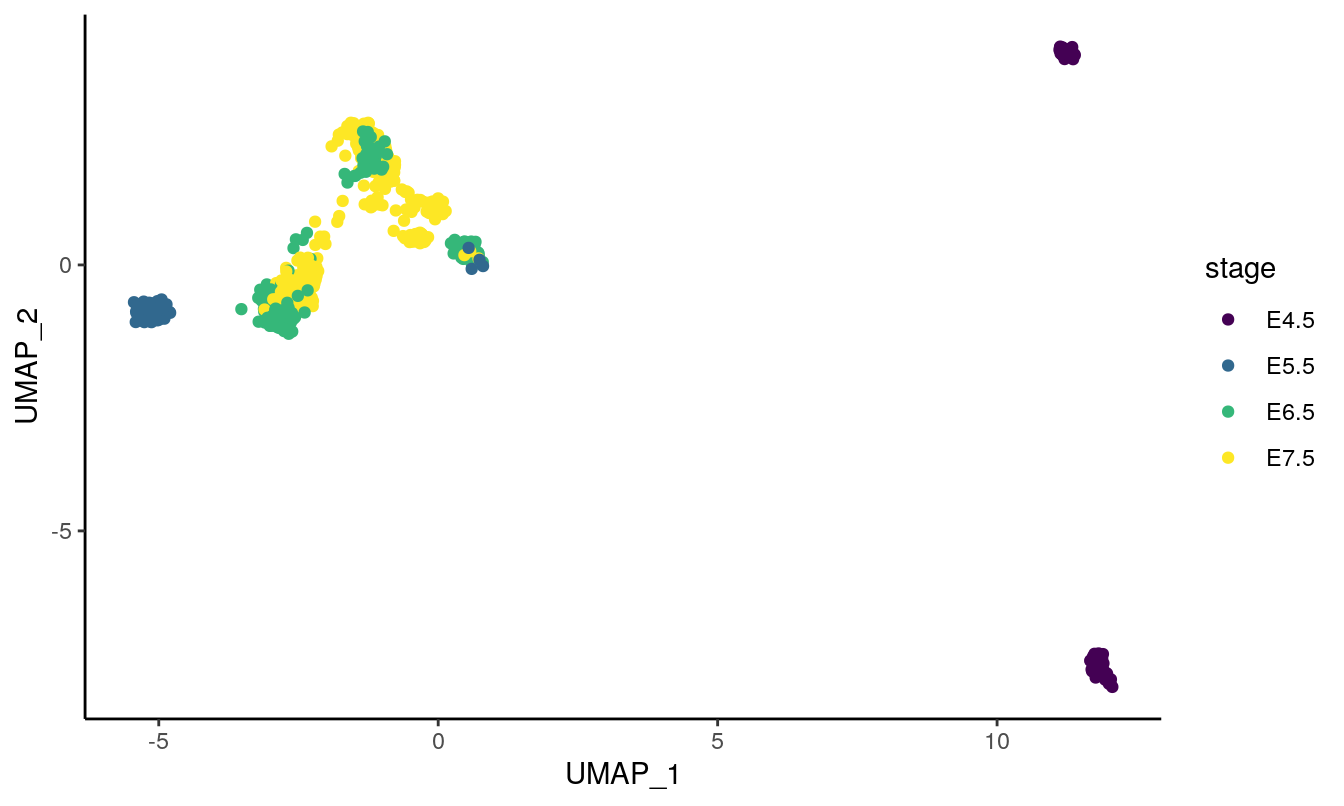
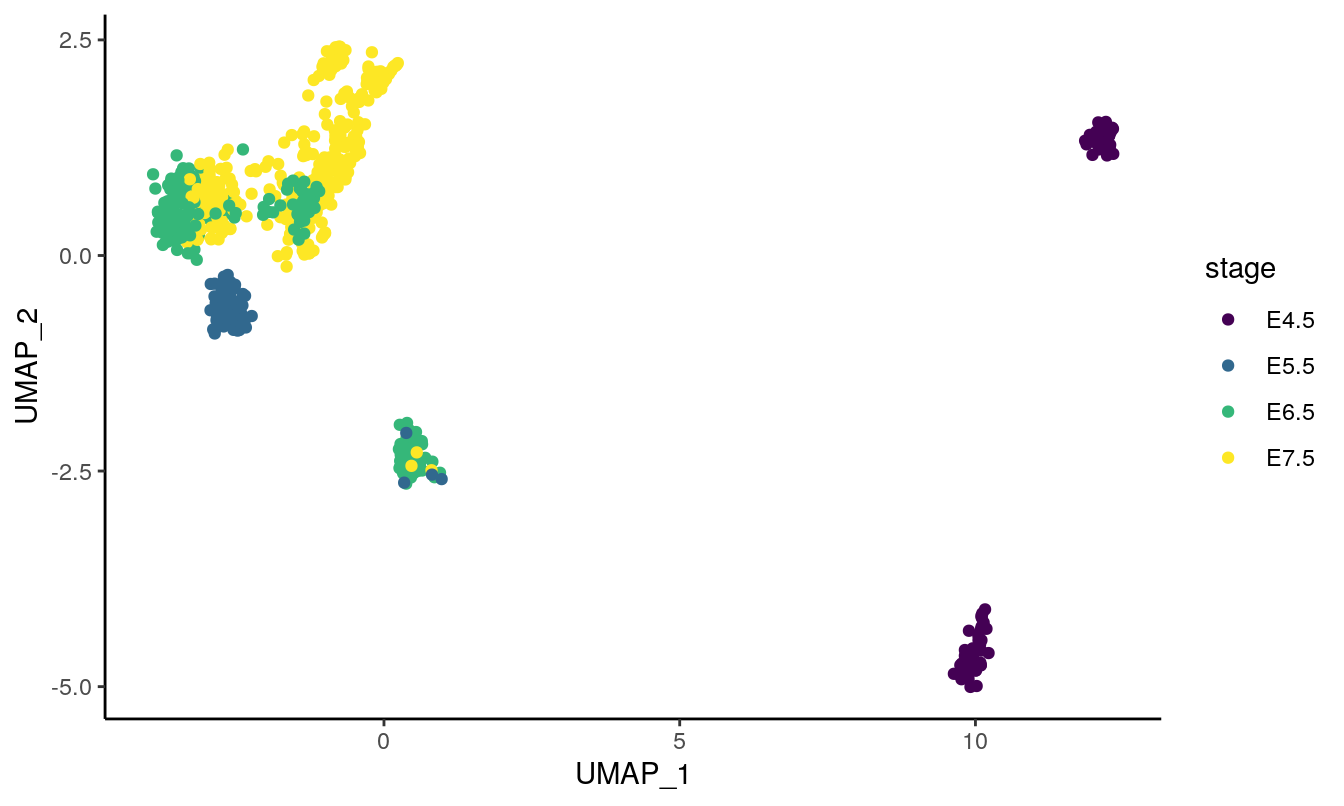
Deploying to gh-pages from  @ 55c8b77de9d2223fc3254720f50335c445be6e78 🚀

diff --git a/articles/index.html b/articles/index.html
@@ -262,17 +262,19 @@ density plots for methylation data show that shorter genomic regions tend to hav
 <h2 class="hasAnchor">
 <a href="#umap" class="anchor"></a>UMAP</h2>
 <p>Here we use <code>uwot</code> package for Uniform Manifold Approximation Projection. The original study used the <code>umap</code> package with <code>method = 'umap-learn'</code> parameter which requires the ‘umap-learn’ python library and can add complexity to set up on a VM.</p>
-<div class="sourceCode" id="cb10"><html><body><pre class="r"><span class="fu"><a href="https://rdrr.io/r/base/Random.html">set.seed</a></span>(<span class="no">params</span>$<span class="no">umap_params</span>[<span class="st">'run.seed'</span>])
+<div class="sourceCode" id="cb10"><html><body><pre class="r"><span class="fu"><a href="https://rdrr.io/r/base/Random.html">RNGversion</a></span>(<span class="st">'4.0.1'</span>)
+<span class="fu"><a href="https://rdrr.io/r/base/Random.html">set.seed</a></span>(<span class="no">params</span>$<span class="no">umap_params</span>[<span class="st">'run.seed'</span>])
 <span class="co">## all params use defaults except for 'n_components' and 'min_dist'</span>
 <span class="fu"><a href="https://rdrr.io/r/base/cat.html">cat</a></span>(<span class="fu"><a href="https://rdrr.io/r/base/sprintf.html">sprintf</a></span>(<span class="st">'running umap on RNA data with parameters: %s ...\n '</span>,
             <span class="fu"><a href="https://rdrr.io/r/base/paste.html">paste</a></span>(<span class="fu"><a href="https://rdrr.io/r/base/names.html">names</a></span>(<span class="no">params</span>$<span class="no">umap_params</span>[-<span class="fl">1</span>]), <span class="st">':'</span>,
                   <span class="no">params</span>$<span class="no">umap_params</span>[-<span class="fl">1</span>], <span class="kw">collapse</span> <span class="kw">=</span> <span class="st">', '</span>)))
-<span class="co">#&gt; running umap on RNA data with parameters: n_neighbors : 15, n_components : 4 ...</span>
+<span class="co">#&gt; running umap on RNA data with parameters: n_neighbors : 15, n_components : 4, min_dist : 0.1 ...</span>
 <span class="co">#&gt; </span>
 <span class="no">umap_rna_unsup</span> <span class="kw">&lt;-</span> <span class="kw pkg">uwot</span><span class="kw ns">::</span><span class="fu"><a href="https://rdrr.io/pkg/uwot/man/umap.html">umap</a></span>(
   <span class="fu"><a href="https://rdrr.io/r/base/t.html">t</a></span>(<span class="fu">assay</span>(<span class="no">gastru.mae</span>, <span class="st">'rna'</span>)),
   <span class="kw">n_neighbors</span> <span class="kw">=</span> <span class="no">params</span>$<span class="no">umap_params</span>[<span class="st">'n_neighbors'</span>],
   <span class="kw">n_components</span> <span class="kw">=</span> <span class="no">params</span>$<span class="no">umap_params</span>[<span class="st">'n_components'</span>],
+  <span class="kw">min_dist</span> <span class="kw">=</span> <span class="no">params</span>$<span class="no">umap_params</span>[<span class="st">'min_dist'</span>], <span class="co">## continuity (min_dist &gt;&gt; 0)-discreteness (min_dist -&gt; 0) trade-off</span>
   <span class="kw">metric</span> <span class="kw">=</span> <span class="st">"euclidean"</span>,
   <span class="kw">n_epochs</span> <span class="kw">=</span> <span class="kw">NULL</span>,
   <span class="kw">learning_rate</span> <span class="kw">=</span> <span class="fl">1</span>,
@@ -378,18 +380,32 @@ UMAP plot shows distinct cell populations corresponding to early-stage, mid-stag
 <div id="concordancy-with-rna" class="section level1">
 <h1 class="hasAnchor">
 <a href="#concordancy-with-rna" class="anchor"></a>Concordancy with RNA</h1>
-<p>Average correlation of the components of rna and different modalities:</p>
-<div class="sourceCode" id="cb21"><html><body><pre class="r"><span class="no">cor_with_rna</span> <span class="kw">&lt;-</span> <span class="fu"><a href="https://rdrr.io/r/base/lapply.html">sapply</a></span>(<span class="no">mmspls</span>$<span class="no">variates</span>[-<span class="fl">1</span>], <span class="kw">function</span>(<span class="no">x</span>) {
-  <span class="fu"><a href="https://rdrr.io/r/base/mean.html">mean</a></span>(<span class="fu"><a href="https://rdrr.io/r/base/diag.html">diag</a></span>(<span class="fu"><a href="https://rdrr.io/r/stats/cor.html">cor</a></span>(<span class="no">mmspls</span>$<span class="no">variates</span>$<span class="no">rna</span>, <span class="no">x</span>)))
-})
+<p>Here we calculate the average correlation between components from gene expression and different methylome modalities:</p>
+<div class="sourceCode" id="cb21"><html><body><pre class="r"><span class="no">concordancy</span> <span class="kw">&lt;-</span> <span class="kw">function</span>(<span class="no">pls_obj</span>, <span class="no">comp</span> <span class="kw">=</span> <span class="fl">1</span>) {
 
-<span class="no">cor_with_rna</span> <span class="kw">&lt;-</span> <span class="no">cor_with_rna</span> <span class="kw">%&gt;%</span> <span class="fu"><a href="https://rdrr.io/r/base/sort.html">sort</a></span>(<span class="kw">decreasing</span> <span class="kw">=</span> <span class="fl">TRUE</span>)
-<span class="no">cor_with_rna</span> <span class="kw">&lt;-</span> <span class="no">cor_with_rna</span> <span class="kw">%&gt;%</span> <span class="fu"><a href="https://rdrr.io/r/base/as.data.frame.html">as.data.frame</a></span>() <span class="kw">%&gt;%</span> <span class="fu"><a href="https://rdrr.io/pkg/magrittr/man/aliases.html">set_colnames</a></span>(<span class="fu"><a href="https://rdrr.io/r/base/c.html">c</a></span>(<span class="st">'cor'</span>))
-<span class="no">cor_with_rna</span>$<span class="no">modality</span> <span class="kw">&lt;-</span> <span class="fu"><a href="https://rdrr.io/r/base/factor.html">factor</a></span>(<span class="fu"><a href="https://rdrr.io/r/base/colnames.html">rownames</a></span>(<span class="no">cor_with_rna</span>), <span class="kw">levels</span> <span class="kw">=</span> <span class="fu"><a href="https://rdrr.io/r/base/colnames.html">rownames</a></span>(<span class="no">cor_with_rna</span>), <span class="kw">ordered</span> <span class="kw">=</span> <span class="fl">TRUE</span>)
+  <span class="no">cor_with_y</span> <span class="kw">&lt;-</span> <span class="fu"><a href="https://rdrr.io/r/base/lapply.html">sapply</a></span>(<span class="no">pls_obj</span>$<span class="no">variates</span>[-<span class="fl">1</span>], <span class="kw">function</span>(<span class="no">x_variates</span>) {
+    <span class="no">y_variates</span> <span class="kw">&lt;-</span> <span class="no">pls_obj</span>$<span class="no">variates</span><span class="kw">[[</span><span class="fl">1</span>]]
+    <span class="no">y_variates</span> <span class="kw">&lt;-</span> <span class="no">y_variates</span>[, <span class="no">comp</span>, <span class="kw">drop</span> <span class="kw">=</span> <span class="fl">FALSE</span>]
 
-<span class="fu"><a href="https://ggplot2.tidyverse.org/reference/ggplot.html">ggplot</a></span>(<span class="no">cor_with_rna</span>, <span class="fu"><a href="https://ggplot2.tidyverse.org/reference/aes.html">aes</a></span>(<span class="kw">x</span> <span class="kw">=</span> <span class="no">modality</span>, <span class="kw">y</span> <span class="kw">=</span> <span class="no">cor</span>)) + <span class="fu"><a href="https://ggplot2.tidyverse.org/reference/geom_bar.html">geom_col</a></span>(<span class="kw">fill</span> <span class="kw">=</span> <span class="st">"#35B779FF"</span>) + <span class="fu"><a href="https://ggplot2.tidyverse.org/reference/ggtheme.html">theme_classic</a></span>() +
-  <span class="fu"><a href="https://ggplot2.tidyverse.org/reference/labs.html">labs</a></span>(<span class="kw">y</span> <span class="kw">=</span> <span class="st">'Avg correlation with RNA'</span>, <span class="kw">y</span> <span class="kw">=</span> <span class="st">'Modality'</span>)</pre></body></html></div>
-<p><img src="index_files/figure-html/unnamed-chunk-29-1.png" width="672"></p>
+    <span class="no">avg_cor</span> <span class="kw">&lt;-</span> <span class="fu"><a href="https://rdrr.io/r/base/mean.html">mean</a></span>(<span class="fu"><a href="https://rdrr.io/r/base/diag.html">diag</a></span>(<span class="fu"><a href="https://rdrr.io/r/stats/cor.html">cor</a></span>(<span class="no">y_variates</span>, <span class="no">x_variates</span>)))
+    <span class="no">avg_cor</span>
+  })
+  <span class="no">cor_with_y</span> <span class="kw">&lt;-</span> <span class="no">cor_with_y</span> <span class="kw">%&gt;%</span> <span class="fu"><a href="https://rdrr.io/r/base/sort.html">sort</a></span>(<span class="kw">decreasing</span> <span class="kw">=</span> <span class="fl">TRUE</span>)
+  <span class="no">cor_with_y</span> <span class="kw">&lt;-</span> <span class="no">cor_with_y</span> <span class="kw">%&gt;%</span> <span class="fu"><a href="https://rdrr.io/r/base/as.data.frame.html">as.data.frame</a></span>() <span class="kw">%&gt;%</span> <span class="fu"><a href="https://rdrr.io/pkg/magrittr/man/aliases.html">set_colnames</a></span>(<span class="fu"><a href="https://rdrr.io/r/base/c.html">c</a></span>(<span class="st">'concordancy'</span>))
+  <span class="no">cor_with_y</span> <span class="kw">%&gt;%</span> <span class="fu"><a href="https://rdrr.io/r/base/Round.html">round</a></span>(<span class="kw">digits</span> <span class="kw">=</span> <span class="fl">2</span>) <span class="kw">%&gt;%</span> <span class="fu"><a href="https://rdrr.io/r/base/t.html">t</a></span>() <span class="kw">%&gt;%</span>  <span class="fu"><a href="https://rdrr.io/pkg/knitr/man/kable.html">kable</a></span>() <span class="kw">%&gt;%</span> <span class="fu"><a href="https://rdrr.io/pkg/mixOmics/man/S3methods-print.html">print</a></span>()
+
+  <span class="no">cor_with_y</span>$<span class="no">modality</span> <span class="kw">&lt;-</span> <span class="fu"><a href="https://rdrr.io/r/base/factor.html">factor</a></span>(<span class="fu"><a href="https://rdrr.io/r/base/colnames.html">rownames</a></span>(<span class="no">cor_with_y</span>), <span class="kw">levels</span> <span class="kw">=</span> <span class="fu"><a href="https://rdrr.io/r/base/colnames.html">rownames</a></span>(<span class="no">cor_with_y</span>), <span class="kw">ordered</span> <span class="kw">=</span> <span class="fl">TRUE</span>)
+  <span class="fu"><a href="https://ggplot2.tidyverse.org/reference/ggplot.html">ggplot</a></span>(<span class="no">cor_with_y</span>, <span class="fu"><a href="https://ggplot2.tidyverse.org/reference/aes.html">aes</a></span>(<span class="kw">x</span> <span class="kw">=</span> <span class="no">modality</span>, <span class="kw">y</span> <span class="kw">=</span> <span class="no">concordancy</span>)) + <span class="fu"><a href="https://ggplot2.tidyverse.org/reference/geom_bar.html">geom_col</a></span>(<span class="kw">fill</span> <span class="kw">=</span> <span class="st">"#35B779FF"</span>) + <span class="fu"><a href="https://ggplot2.tidyverse.org/reference/ggtheme.html">theme_classic</a></span>() +
+    <span class="fu"><a href="https://ggplot2.tidyverse.org/reference/labs.html">labs</a></span>(<span class="kw">y</span> <span class="kw">=</span> <span class="fu"><a href="https://rdrr.io/r/base/sprintf.html">sprintf</a></span>(<span class="st">'Correlation with RNA (comp %s) '</span>, <span class="fu"><a href="https://rdrr.io/r/base/paste.html">paste</a></span>(<span class="no">comp</span>, <span class="kw">collapse</span> <span class="kw">=</span> <span class="st">', '</span>)), <span class="kw">x</span> <span class="kw">=</span> <span class="st">''</span>) + <span class="fu"><a href="https://ggplot2.tidyverse.org/reference/lims.html">ylim</a></span>(<span class="fu"><a href="https://rdrr.io/r/base/c.html">c</a></span>(<span class="fl">0</span>, <span class="fl">1</span>)) + <span class="fu"><a href="https://ggplot2.tidyverse.org/reference/theme.html">theme</a></span>(<span class="kw">axis.text.x</span> <span class="kw">=</span> <span class="fu"><a href="https://ggplot2.tidyverse.org/reference/element.html">element_text</a></span>(<span class="kw">angle</span> <span class="kw">=</span> <span class="fl">45</span>, <span class="kw">vjust</span> <span class="kw">=</span> <span class="fl">0.8</span>, <span class="kw">hjust</span><span class="kw">=</span><span class="fl">1</span>))
+}</pre></body></html></div>
+<div class="sourceCode" id="cb22"><html><body><pre class="r"><span class="fu">concordancy</span>(<span class="kw">pls_obj</span> <span class="kw">=</span> <span class="no">mmspls</span>, <span class="kw">comp</span> <span class="kw">=</span> <span class="fu"><a href="https://rdrr.io/r/base/c.html">c</a></span>(<span class="fl">1</span>, <span class="fl">2</span>))
+<span class="co">#&gt; </span>
+<span class="co">#&gt; </span>
+<span class="co">#&gt; |            | met_promoter| met_cgi| met_genebody| met_DHS| met_CTCF| met_p300|</span>
+<span class="co">#&gt; |:-----------|------------:|-------:|------------:|-------:|--------:|--------:|</span>
+<span class="co">#&gt; |concordancy |         0.78|    0.75|         0.69|    0.49|     0.29|     0.24|</span></pre></body></html></div>
+<p><img src="index_files/figure-html/unnamed-chunk-30-1.png" width="672"></p>
+<p>```</p>
 </div>
 <div class="footnotes">
 <hr>
